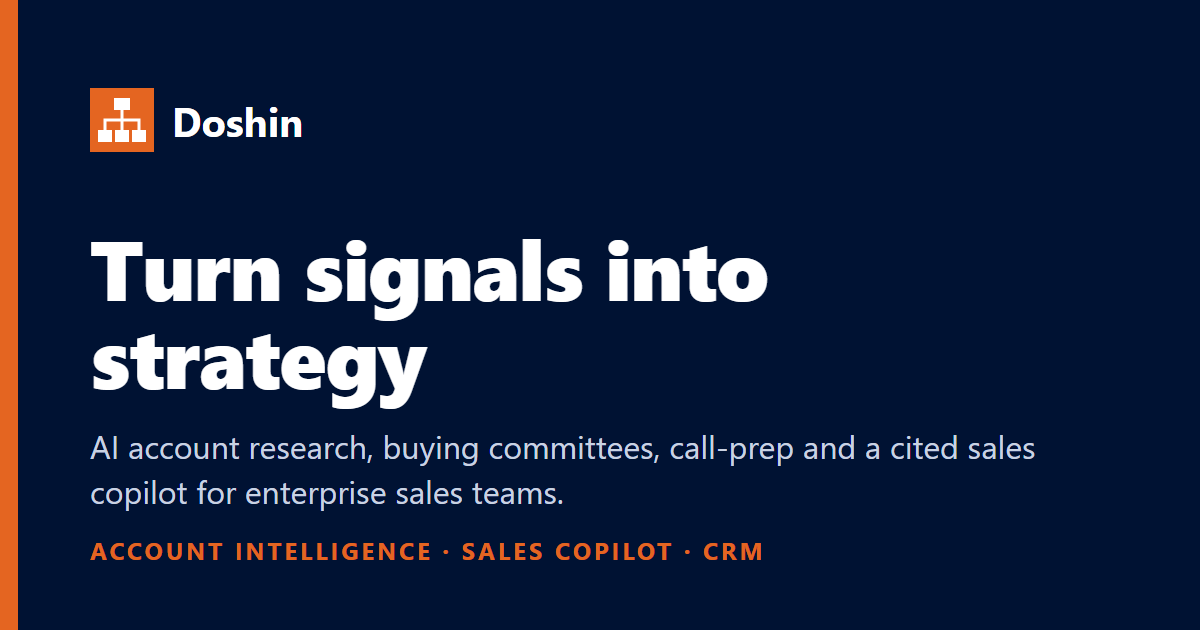
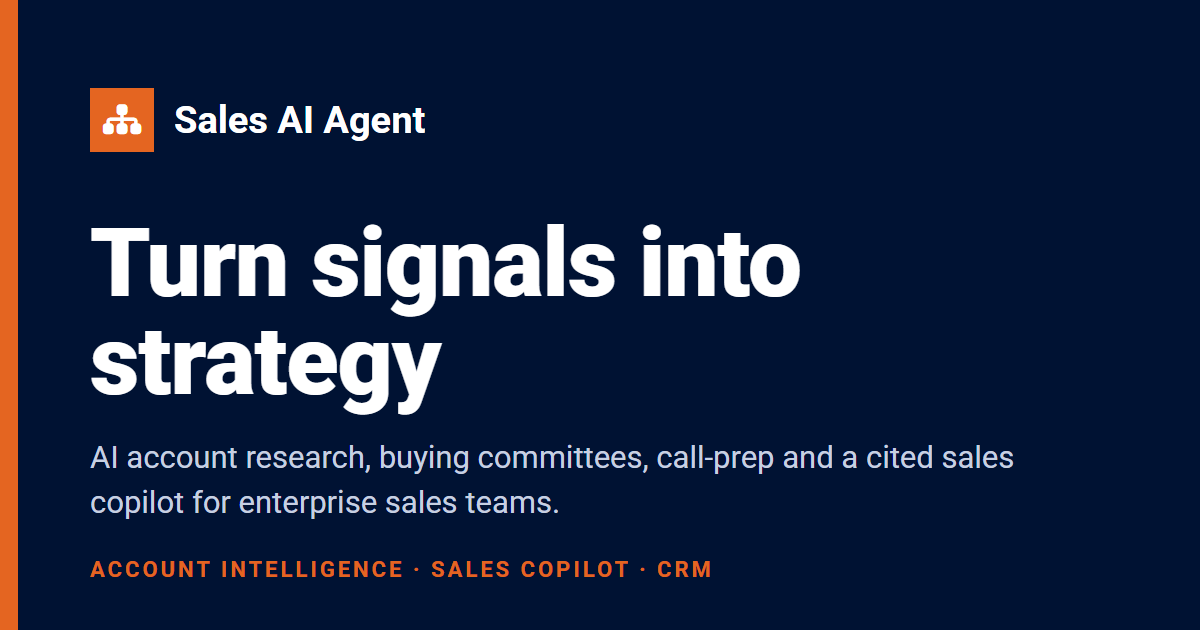
UI: rename Doshin to Sales AI Agent
Page titles, topbar and menu drawer, login/reset screens, admin page, beta
tooltip, Command Center widget badge, landing page text and SEO/share tags,
and the share image (redrawn with the new name). Internal names (DoshinTour,
doshin-tour-* classes) are unchanged.

diff --git a/frontend/templates/landing.html b/frontend/templates/landing.html
@@ -4,12 +4,12 @@
   <meta charset="UTF-8">
   <meta name="viewport" content="width=device-width, initial-scale=1.0">
   {% set base = site_url(request) %}
-  <title>Doshin — Turn signals into strategy | AI sales intelligence</title>
-  <meta name="description" content="Doshin turns public filings, news and enrichment data into account research, buying committees, AI call-prep and a cited sales copilot for B2B sales teams.">
+  <title>Sales AI Agent — Turn signals into strategy | AI sales intelligence</title>
+  <meta name="description" content="Sales AI Agent turns public filings, news and enrichment data into account research, buying committees, AI call-prep and a cited sales copilot for B2B sales teams.">
   <meta name="robots" content="index, follow, max-image-preview:large">
   <link rel="canonical" href="{{ base }}/">
   <meta name="theme-color" content="#001233">
-  <meta name="application-name" content="Doshin">
+  <meta name="application-name" content="Sales AI Agent">
 
   <!-- Icons -->
   <link rel="icon" href="/assets/brand/favicon.svg" type="image/svg+xml">
@@ -18,20 +18,20 @@
 
   <!-- Open Graph / social previews -->
   <meta property="og:type" content="website">
-  <meta property="og:site_name" content="Doshin">
+  <meta property="og:site_name" content="Sales AI Agent">
   <meta property="og:url" content="{{ base }}/">
-  <meta property="og:title" content="Doshin — Turn signals into strategy">
+  <meta property="og:title" content="Sales AI Agent — Turn signals into strategy">
   <meta property="og:description" content="AI account research, buying committees, call-prep and a cited sales copilot for B2B sales teams.">
   <meta property="og:image" content="{{ base }}/assets/brand/og-image.png">
   <meta property="og:image:width" content="1200">
   <meta property="og:image:height" content="630">
-  <meta property="og:image:alt" content="Doshin — Turn signals into strategy">
+  <meta property="og:image:alt" content="Sales AI Agent — Turn signals into strategy">
   <meta property="og:locale" content="en_US">
   <meta name="twitter:card" content="summary_large_image">
-  <meta name="twitter:title" content="Doshin — Turn signals into strategy">
+  <meta name="twitter:title" content="Sales AI Agent — Turn signals into strategy">
   <meta name="twitter:description" content="AI account research, buying committees, call-prep and a cited sales copilot for B2B sales teams.">
   <meta name="twitter:image" content="{{ base }}/assets/brand/og-image.png">
-  <meta name="twitter:image:alt" content="Doshin — Turn signals into strategy">
+  <meta name="twitter:image:alt" content="Sales AI Agent — Turn signals into strategy">
 
   <!-- Structured data (FAQ answers mirror the FAQ section below word for word) -->
   <script type="application/ld+json">
@@ -41,7 +41,7 @@
       {
         "@type": "Organization",
         "@id": "{{ base }}/#organization",
-        "name": "Doshin",
+        "name": "Sales AI Agent",
         "url": "{{ base }}/",
         "logo": "{{ base }}/assets/brand/apple-touch-icon.png",
         "slogan": "Turn signals into strategy"
@@ -49,14 +49,14 @@
       {
         "@type": "WebSite",
         "@id": "{{ base }}/#website",
-        "name": "Doshin",
+        "name": "Sales AI Agent",
         "url": "{{ base }}/",
         "publisher": { "@id": "{{ base }}/#organization" },
         "inLanguage": "en"
       },
       {
         "@type": "SoftwareApplication",
-        "name": "Doshin",
+        "name": "Sales AI Agent",
         "applicationCategory": "BusinessApplication",
         "operatingSystem": "Web",
         "url": "{{ base }}/",
@@ -103,9 +103,9 @@
 <!-- ── Header ──────────────────────────────────────────────── -->
 <header class="lp-header" id="top">
   <div class="lp-container lp-header-inner">
-    <a class="lp-logo" href="/" aria-label="Doshin home">
+    <a class="lp-logo" href="/" aria-label="Sales AI Agent home">
       <span class="lp-logo-icon"><i class="fa-solid fa-sitemap"></i></span>
-      <span>Doshin</span>
+      <span>Sales AI Agent</span>
     </a>
     <button type="button" class="lp-menu-btn" id="lpMenuBtn" aria-label="Open menu" aria-expanded="false" aria-controls="lpNav">
       <i class="fa-solid fa-bars"></i>
@@ -324,7 +324,7 @@
 <footer class="lp-footer">
   <div class="lp-container lp-footer-grid">
     <div>
-      <a class="lp-logo" href="/"><span class="lp-logo-icon"><i class="fa-solid fa-sitemap"></i></span><span>Doshin</span></a>
+      <a class="lp-logo" href="/"><span class="lp-logo-icon"><i class="fa-solid fa-sitemap"></i></span><span>Sales AI Agent</span></a>
       <p class="lp-footer-about">Account research, buying committees and AI call-prep for enterprise sales teams.</p>
     </div>
     <div>
@@ -344,7 +344,7 @@
       <a href="/login">Sign in</a>
     </div>
   </div>
-  <div class="lp-container lp-copyright">© <span id="lpYear">2026</span> Doshin. All rights reserved.</div>
+  <div class="lp-container lp-copyright">© <span id="lpYear">2026</span> Sales AI Agent. All rights reserved.</div>
 </footer>
 
 <script type="module" src="js/modules/landing.js?v=1.0"></script>

diff --git a/frontend/templates/reset-password.html b/frontend/templates/reset-password.html
@@ -5,7 +5,7 @@
   <meta name="viewport" content="width=device-width, initial-scale=1">
   <meta name="robots" content="noindex, nofollow">
   <link rel="icon" href="/assets/brand/favicon.svg" type="image/svg+xml">
-  <title>Reset Password | Doshin</title>
+  <title>Reset Password | Sales AI Agent</title>
   <link href="https://fonts.googleapis.com/css2?family=Roboto:wght@400;500;600;700;800&display=swap" rel="stylesheet">
   <link href="https://cdnjs.cloudflare.com/ajax/libs/font-awesome/6.5.2/css/all.min.css" rel="stylesheet">
   <link rel="stylesheet" href="css/tokens.css?v=3.0">
@@ -19,7 +19,7 @@
 
   <div class="auth-split-left">
     <div class="auth-left-content">
-      <div class="auth-brand"><i class="fa-solid fa-sitemap"></i> Doshin <span class="beta-badge" title="Doshin is in beta — features may still change. Tell us what to improve.">Beta</span></div>
+      <div class="auth-brand"><i class="fa-solid fa-sitemap"></i> Sales AI Agent <span class="beta-badge" title="Sales AI Agent is in beta — features may still change. Tell us what to improve.">Beta</span></div>
       <h1 class="auth-left-title">Turn signals into strategy.</h1>
       <p class="auth-left-subtitle">
         Buying-committee mapping, AI call-prep dossiers, and real-time signal
@@ -41,7 +41,7 @@
 
   <div class="auth-split-right">
     <div class="auth-card">
-      <div class="auth-brand auth-brand-mobile"><i class="fa-solid fa-sitemap"></i> Doshin <span class="beta-badge" title="Doshin is in beta — features may still change. Tell us what to improve.">Beta</span></div>
+      <div class="auth-brand auth-brand-mobile"><i class="fa-solid fa-sitemap"></i> Sales AI Agent <span class="beta-badge" title="Sales AI Agent is in beta — features may still change. Tell us what to improve.">Beta</span></div>
 
       <div id="authFormReset">
         <h1 class="auth-title">Set a new password</h1>

diff --git a/frontend/templates/login.html b/frontend/templates/login.html
@@ -5,7 +5,7 @@
   <meta name="viewport" content="width=device-width, initial-scale=1">
   <meta name="robots" content="noindex, nofollow">
   <link rel="icon" href="/assets/brand/favicon.svg" type="image/svg+xml">
-  <title>Sign In | Doshin</title>
+  <title>Sign In | Sales AI Agent</title>
   <link href="https://fonts.googleapis.com/css2?family=Roboto:wght@400;500;600;700;800&display=swap" rel="stylesheet">
   <link href="https://cdnjs.cloudflare.com/ajax/libs/font-awesome/6.5.2/css/all.min.css" rel="stylesheet">
   <link rel="stylesheet" href="css/tokens.css?v=3.0">
@@ -19,7 +19,7 @@
 
   <div class="auth-split-left">
     <div class="auth-left-content">
-      <div class="auth-brand"><i class="fa-solid fa-sitemap"></i> Doshin <span class="beta-badge" title="Doshin is in beta — features may still change. Tell us what to improve.">Beta</span></div>
+      <div class="auth-brand"><i class="fa-solid fa-sitemap"></i> Sales AI Agent <span class="beta-badge" title="Sales AI Agent is in beta — features may still change. Tell us what to improve.">Beta</span></div>
       <h1 class="auth-left-title">Turn signals into strategy.</h1>
       <p class="auth-left-subtitle">
         Buying-committee mapping, AI call-prep dossiers, and real-time signal
@@ -41,7 +41,7 @@
 
   <div class="auth-split-right">
     <div class="auth-card">
-      <div class="auth-brand auth-brand-mobile"><i class="fa-solid fa-sitemap"></i> Doshin <span class="beta-badge" title="Doshin is in beta — features may still change. Tell us what to improve.">Beta</span></div>
+      <div class="auth-brand auth-brand-mobile"><i class="fa-solid fa-sitemap"></i> Sales AI Agent <span class="beta-badge" title="Sales AI Agent is in beta — features may still change. Tell us what to improve.">Beta</span></div>
 
       <div id="authFormLogin">
         <h1 class="auth-title">Sign in</h1>

diff --git a/frontend/templates/admin.html b/frontend/templates/admin.html
@@ -4,7 +4,7 @@
 <head>
   <meta charset="utf-8">
   <meta name="viewport" content="width=device-width, initial-scale=1">
-  <title>Admin | Doshin</title>
+  <title>Admin | Sales AI Agent</title>
   <link href="https://fonts.googleapis.com/css2?family=Roboto:wght@400;500;600;700;800&display=swap" rel="stylesheet">
   <link href="https://cdnjs.cloudflare.com/ajax/libs/font-awesome/6.5.2/css/all.min.css" rel="stylesheet">
   <link rel="stylesheet" href="css/tokens.css?v=4.0">
@@ -28,7 +28,7 @@
       <div class="topbar-icon" style="background: var(--brand-gradient);"><i
           class="fa-solid fa-shield-halved"></i></div>
       <div>
-        <div class="topbar-title">Doshin Admin <span class="beta-badge" title="Doshin is in beta — features may still change. Tell us what to improve.">Beta</span></div>
+        <div class="topbar-title">Sales AI Agent Admin <span class="beta-badge" title="Sales AI Agent is in beta — features may still change. Tell us what to improve.">Beta</span></div>
         <div class="topbar-sub">Super Admin Management Console</div>
       </div>
     </div>

diff --git a/frontend/templates/partials/topbar.html b/frontend/templates/partials/topbar.html
@@ -17,7 +17,7 @@
     <div class="topbar-brand">
       <div class="topbar-icon"><i class="fa-solid fa-sitemap"></i></div>
       <div>
-        <div class="topbar-title">Doshin <span class="beta-badge" title="Doshin is in beta — features may still change. Tell us what to improve.">Beta</span></div>
+        <div class="topbar-title">Sales AI Agent <span class="beta-badge" title="Sales AI Agent is in beta — features may still change. Tell us what to improve.">Beta</span></div>
         <div class="topbar-sub">Turn signals into strategy</div>
       </div>
       <span class="topbar-page" id="topbarPage"></span>
@@ -47,7 +47,7 @@
   <!-- Tablet portrait: every section in a drawer opened from the ☰ button -->
   <nav class="app-drawer" id="appDrawer" aria-label="Main" hidden>
     <div class="app-drawer-head">
-      <span>Doshin</span>
+      <span>Sales AI Agent</span>
       <button type="button" class="app-close-btn" data-app-close aria-label="Close menu"><i class="fa-solid fa-xmark"></i></button>
     </div>
     <div class="app-drawer-body">

diff --git a/frontend/templates/command-center.html b/frontend/templates/command-center.html
@@ -3,7 +3,7 @@
 <head>
   <meta charset="utf-8">
   <meta name="viewport" content="width=device-width, initial-scale=1">
-  <title>Sales Command Center | Doshin</title>
+  <title>Sales Command Center | Sales AI Agent</title>
   <link href="https://fonts.googleapis.com/css2?family=Roboto:wght@400;500;600;700;800&display=swap" rel="stylesheet">
   <link href="https://cdnjs.cloudflare.com/ajax/libs/font-awesome/6.5.2/css/all.min.css" rel="stylesheet">
   <link rel="stylesheet" href="css/tokens.css?v=3.0">
@@ -347,7 +347,7 @@
     <div class="cc-info-modal-title-wrap">
       <div class="cc-info-modal-icon-box"><i class="fa-solid fa-circle-info" id="ccWidgetInfoIcon"></i></div>
       <div>
-        <span class="cc-info-modal-badge" id="ccWidgetInfoBadge">Doshin</span>
+        <span class="cc-info-modal-badge" id="ccWidgetInfoBadge">Sales AI Agent</span>
         <h3 class="cc-info-modal-title" id="ccWidgetInfoTitle">Widget Guide</h3>
       </div>
     </div>

diff --git a/frontend/templates/partner.html b/frontend/templates/partner.html
@@ -15,7 +15,7 @@
 
 <header class="pt-top">
   <div class="pt-brand"><span class="pt-logo"><i class="fa-solid fa-handshake"></i></span>
-    <div><strong>StradIT Partner Portal <span class="beta-badge" title="Doshin is in beta — features may still change. Tell us what to improve.">Beta</span></strong><small id="ptOrg">&nbsp;</small></div></div>
+    <div><strong>StradIT Partner Portal <span class="beta-badge" title="Sales AI Agent is in beta — features may still change. Tell us what to improve.">Beta</span></strong><small id="ptOrg">&nbsp;</small></div></div>
   <div class="pt-user"><span id="ptUser"></span>
     <button type="button" class="pt-btn pt-ghost" id="ptLogout"><i class="fa-solid fa-right-from-bracket"></i> Sign out</button></div>
 </header>

diff --git a/frontend/templates/profile.html b/frontend/templates/profile.html
@@ -3,7 +3,7 @@
 <head>
   <meta charset="utf-8">
   <meta name="viewport" content="width=device-width, initial-scale=1">
-  <title id="profilePageTitle">Contact Profile | Doshin</title>
+  <title id="profilePageTitle">Contact Profile | Sales AI Agent</title>
   <link href="https://fonts.googleapis.com/css2?family=Roboto:wght@400;500;600;700;800&display=swap" rel="stylesheet">
   <link href="https://cdnjs.cloudflare.com/ajax/libs/font-awesome/6.5.2/css/all.min.css" rel="stylesheet">
   <link rel="stylesheet" href="css/tokens.css?v=3.0">

diff --git a/frontend/js/modules/command-center/widget-guide.js b/frontend/js/modules/command-center/widget-guide.js
@@ -130,7 +130,7 @@ export function initWidgetGuides() {
 
     if (titleEl) titleEl.textContent = guide.title;
     if (iconEl) iconEl.className = `${guide.icon || 'fa-solid fa-circle-info'}`;
-    if (badgeEl) badgeEl.textContent = guide.badge || 'Doshin';
+    if (badgeEl) badgeEl.textContent = guide.badge || 'Sales AI Agent';
     if (summaryEl) summaryEl.textContent = guide.summary;
     if (actionEl) actionEl.textContent = guide.actionTip;
     if (signalsEl) signalsEl.textContent = guide.signals || 'Real-time telemetry';

diff --git a/frontend/js/modules/app-nav.js b/frontend/js/modules/app-nav.js
@@ -18,7 +18,7 @@ function markCurrent() {
   document.querySelectorAll('[data-app-nav]').forEach((a) => {
     if (a.getAttribute('href') === here) a.setAttribute('aria-current', 'page');
   });
-  // Phone/tablet: the page's own name next to the logo ("Deals Pipeline | Doshin" → "Deals Pipeline")
+  // Phone/tablet: the page's own name next to the logo ("Deals Pipeline | Sales AI Agent" → "Deals Pipeline")
   const page = $('topbarPage');
   if (page) page.textContent = document.title.split('|')[0].trim();
 }

diff --git a/frontend/templates/capture.html b/frontend/templates/capture.html
@@ -3,7 +3,7 @@
 <head>
   <meta charset="utf-8">
   <meta name="viewport" content="width=device-width, initial-scale=1">
-  <title>Email &amp; Calendar Sync | Doshin</title>
+  <title>Email &amp; Calendar Sync | Sales AI Agent</title>
   <link href="https://fonts.googleapis.com/css2?family=Roboto:wght@400;500;600;700;800&display=swap" rel="stylesheet">
   <link href="https://cdnjs.cloudflare.com/ajax/libs/font-awesome/6.5.2/css/all.min.css" rel="stylesheet">
   <link rel="stylesheet" href="css/tokens.css?v=3.0">

diff --git a/frontend/templates/index.html b/frontend/templates/index.html
@@ -3,7 +3,7 @@
 <head>
   <meta charset="utf-8">
   <meta name="viewport" content="width=device-width, initial-scale=1">
-  <title>Global Accounts Dashboard | Doshin</title>
+  <title>Global Accounts Dashboard | Sales AI Agent</title>
   <link href="https://fonts.googleapis.com/css2?family=Roboto:wght@400;500;600;700;800&display=swap" rel="stylesheet">
   <link href="https://cdnjs.cloudflare.com/ajax/libs/font-awesome/6.5.2/css/all.min.css" rel="stylesheet">
   <link rel="stylesheet" href="css/tokens.css?v=3.0">
